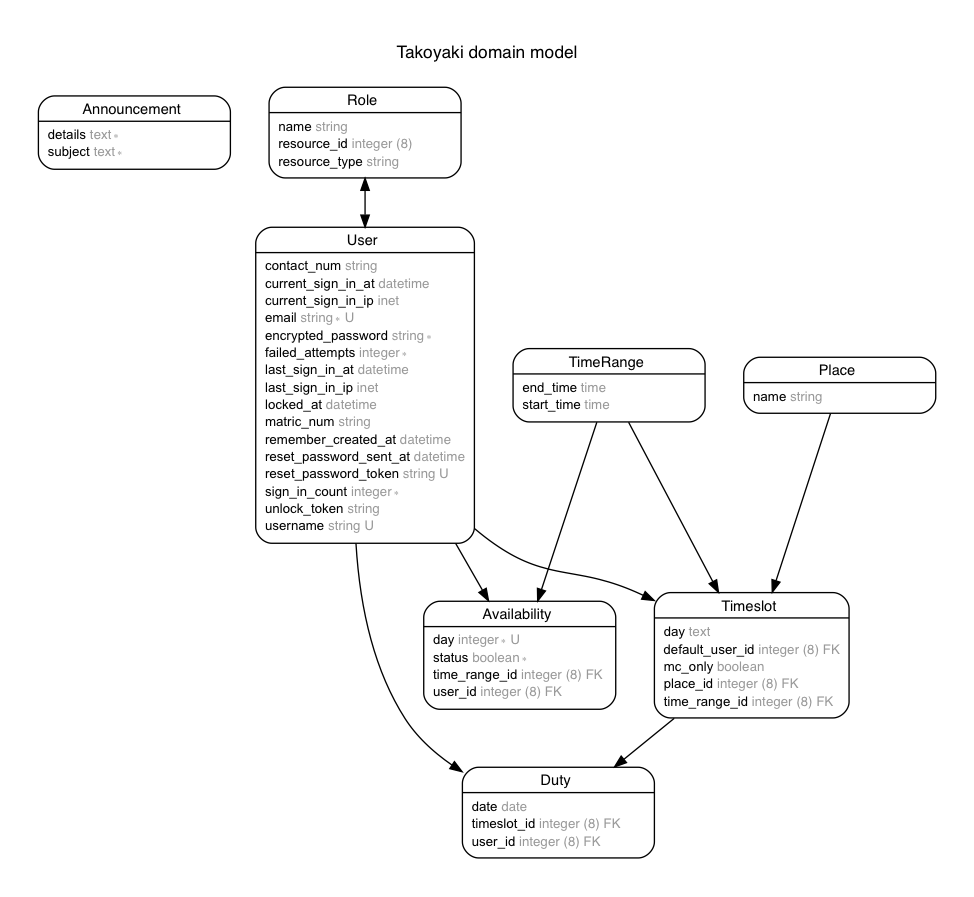
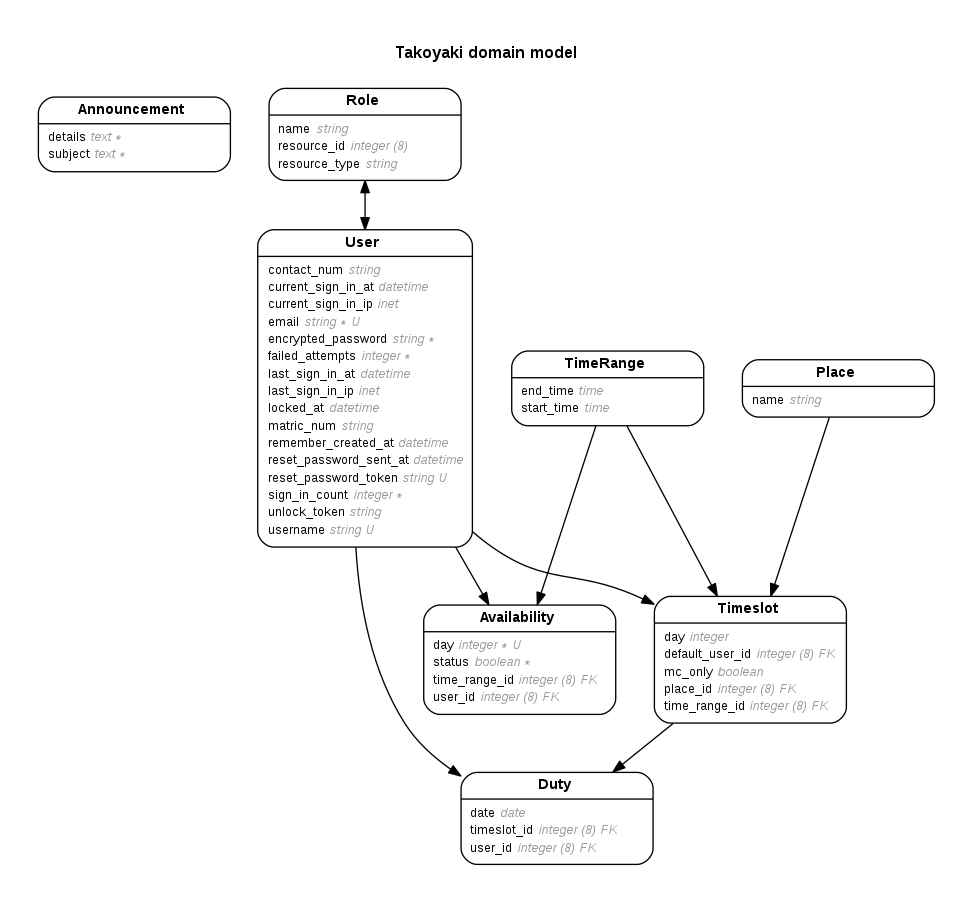
Change all enum types to integer (#38)
* Change all enum types to integer

* Fix rubocop offenses

* Add tests for enum

* Change migration to only modify timeslot.day

* Fix rubocop

diff --git a/spec/models/availability_spec.rb b/spec/models/availability_spec.rb
@@ -1,5 +1,6 @@
 # frozen_string_literal: true
 
+# rubocop:disable Metrics/LineLength
 # == Schema Information
 #
 # Table name: availabilities
@@ -16,20 +17,21 @@
 #
 #  index_availabilities_on_time_range_id                      (time_range_id)
 #  index_availabilities_on_user_id                            (user_id)
-#  index_availabilities_on_user_id_and_time_range_id_and_day
-#    (user_id,time_range_id,day) UNIQUE
+#  index_availabilities_on_user_id_and_time_range_id_and_day  (user_id,time_range_id,day) UNIQUE
 #
 # Foreign Keys
 #
 #  fk_rails_...  (time_range_id => time_ranges.id)
 #  fk_rails_...  (user_id => users.id)
 #
+# rubocop:enable Metrics/LineLength
 
 require 'rails_helper'
 
 RSpec.describe Availability, type: :model do
   it { should belong_to(:user) }
   it { should belong_to(:time_range) }
+  it { should define_enum_for(:day).with(Date::ABBR_DAYNAMES.map(&:to_sym)) }
 
   it 'saves given a valid Availability' do
     expect(create(:availability)).to be_valid

diff --git a/db/schema.rb b/db/schema.rb
@@ -10,7 +10,7 @@
 #
 # It's strongly recommended that you check this file into your version control system.
 
-ActiveRecord::Schema.define(version: 20180319073436) do
+ActiveRecord::Schema.define(version: 20180329164621) do
 
   # These are extensions that must be enabled in order to support this database
   enable_extension "plpgsql"
@@ -64,12 +64,12 @@ ActiveRecord::Schema.define(version: 20180319073436) do
 
   create_table "timeslots", force: :cascade do |t|
     t.boolean  "mc_only"
-    t.text     "day"
     t.bigint   "default_user_id", :index=>{:name=>"index_timeslots_on_default_user_id"}
     t.bigint   "time_range_id",   :index=>{:name=>"index_timeslots_on_time_range_id"}
     t.bigint   "place_id",        :index=>{:name=>"index_timeslots_on_place_id"}
     t.datetime "created_at",      :null=>false
     t.datetime "updated_at",      :null=>false
+    t.integer  "day"
   end
 
   create_table "users", force: :cascade do |t|

diff --git a/app/models/availability.rb b/app/models/availability.rb
@@ -1,5 +1,6 @@
 # frozen_string_literal: true
 
+# rubocop:disable Metrics/LineLength
 # == Schema Information
 #
 # Table name: availabilities
@@ -16,14 +17,14 @@
 #
 #  index_availabilities_on_time_range_id                      (time_range_id)
 #  index_availabilities_on_user_id                            (user_id)
-#  index_availabilities_on_user_id_and_time_range_id_and_day
-#    (user_id,time_range_id,day) UNIQUE
+#  index_availabilities_on_user_id_and_time_range_id_and_day  (user_id,time_range_id,day) UNIQUE
 #
 # Foreign Keys
 #
 #  fk_rails_...  (time_range_id => time_ranges.id)
 #  fk_rails_...  (user_id => users.id)
 #
+# rubocop:enable Metrics/LineLength
 
 class Availability < ApplicationRecord
   belongs_to :user

diff --git a/spec/factories/availabilities.rb b/spec/factories/availabilities.rb
@@ -1,5 +1,6 @@
 # frozen_string_literal: true
 
+# rubocop:disable Metrics/LineLength
 # == Schema Information
 #
 # Table name: availabilities
@@ -16,14 +17,14 @@
 #
 #  index_availabilities_on_time_range_id                      (time_range_id)
 #  index_availabilities_on_user_id                            (user_id)
-#  index_availabilities_on_user_id_and_time_range_id_and_day
-#    (user_id,time_range_id,day) UNIQUE
+#  index_availabilities_on_user_id_and_time_range_id_and_day  (user_id,time_range_id,day) UNIQUE
 #
 # Foreign Keys
 #
 #  fk_rails_...  (time_range_id => time_ranges.id)
 #  fk_rails_...  (user_id => users.id)
 #
+# rubocop:enable Metrics/LineLength
 
 FactoryBot.define do
   factory :availability do

diff --git a/spec/models/timeslot_spec.rb b/spec/models/timeslot_spec.rb
@@ -6,12 +6,12 @@
 #
 #  id              :integer          not null, primary key
 #  mc_only         :boolean
-#  day             :text
 #  default_user_id :integer
 #  time_range_id   :integer
 #  place_id        :integer
 #  created_at      :datetime         not null
 #  updated_at      :datetime         not null
+#  day             :integer
 #
 # Indexes
 #
@@ -33,4 +33,5 @@ RSpec.describe Timeslot, type: :model do
   it { should belong_to(:default_user).class_name('User') }
   it { should belong_to(:place) }
   it { should belong_to(:time_range) }
+  it { should define_enum_for(:day).with(Date::DAYNAMES) }
 end

diff --git a/app/models/timeslot.rb b/app/models/timeslot.rb
@@ -6,12 +6,12 @@
 #
 #  id              :integer          not null, primary key
 #  mc_only         :boolean
-#  day             :text
 #  default_user_id :integer
 #  time_range_id   :integer
 #  place_id        :integer
 #  created_at      :datetime         not null
 #  updated_at      :datetime         not null
+#  day             :integer
 #
 # Indexes
 #

diff --git a/spec/factories/timeslots.rb b/spec/factories/timeslots.rb
@@ -6,12 +6,12 @@
 #
 #  id              :integer          not null, primary key
 #  mc_only         :boolean
-#  day             :text
 #  default_user_id :integer
 #  time_range_id   :integer
 #  place_id        :integer
 #  created_at      :datetime         not null
 #  updated_at      :datetime         not null
+#  day             :integer
 #
 # Indexes
 #

diff --git a/db/migrate/20180329164621_change_all_enum_to_integer.rb b/db/migrate/20180329164621_change_all_enum_to_integer.rb
@@ -1,0 +1,6 @@
+class ChangeAllEnumToInteger < ActiveRecord::Migration[5.1]
+  def change
+    remove_column :timeslots, :day
+    add_column :timeslots, :day, :integer
+  end
+end
